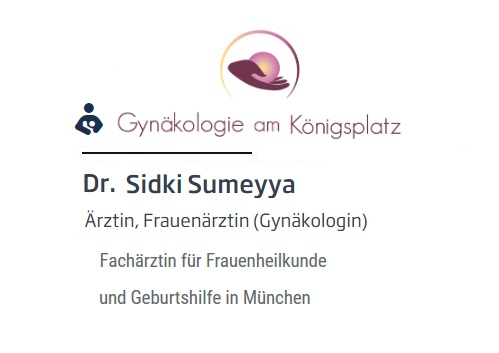
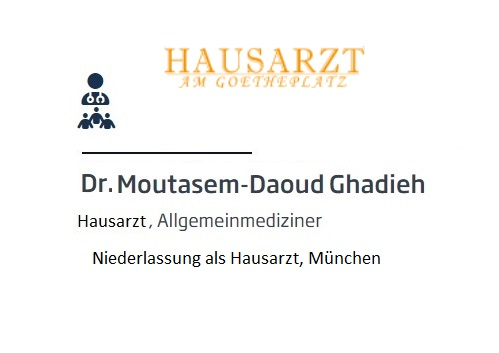
fix

diff --git a/data/db-other.js b/data/db-other.js
@@ -256,11 +256,42 @@ const other = [
     }, 
     {
         id: '10',
-        title: 'Dr. med. Sumeyya Sidki',
+        title: 'Dr. Moutasem-Daoud Ghadieh',
         category: 'arabic doctors',
         icon: 'fa-solid fa-shop',
         images: [
             './images/other/other-10.jpeg',
+        ],
+        country: 'Germany',
+        location: 'https://goo.gl/maps/Md8vjtEyQw2Bby6EA',
+        site: 'https://www.praxis-ghadieh.de/',
+        facebook: '',
+        termin: 'https://www.jameda.de/muenchen/aerzte/innere-allgemeinmediziner/moutasem-daoud-ghadieh/uebersicht/80434343_1/',
+        address1: 'Lindwurmstraße 85, 80337 München',
+        phone: '089534735',
+        email:'drmdghadieh@hotmail.de',
+        description: 'Dr. Moutasem-Daoud Ghadieh, General practitioner.',
+        more: 'praxis offer you modern and all-encompassing, precise and state-of-the-art medical care in the context of internal medicine and general medicine. We follow evidence-based medicine in our decisions regarding your treatment. And in your medical care, we integrate the latest research results and scientific findings in our field. Our many years of activity in the Munich medical network allows us to offer you the best clinicians and specialists for further treatment.',
+        thingstodo: [
+            'General practitioner',
+            'Sonography',
+            'LUFU',
+            'Ergometry',
+            'LZ-RR',
+            'ECG',
+            'LZ ECG'
+        ],
+        rate: 4.2,
+        likes: '299',
+        featured: true,
+    }, 
+    {
+        id: '11',
+        title: 'Dr. med. Sumeyya Sidki',
+        category: 'arabic doctors',
+        icon: 'fa-solid fa-shop',
+        images: [
+            './images/other/other-11.jpeg',
         ],
         country: 'Germany',
         location: 'https://goo.gl/maps/YCQb1VeJKTjXuxu58',

diff --git a/about.html b/about.html
@@ -109,6 +109,7 @@
       <h6>places for birthday party.</h6>
       <h6>picnic, grilling, walk, relax, bike, strolling, price-less.</h6>
       <h6>cafes, shopping, hiking, swimming, lakes,...</h6>
+      <h6>#munich #liveinmunich #placestovisitinmunich #munichtourism #tourguide #trips #munichtoexplore #bayern #BayernMunich #outing #tours #travel #tripadvisor #europe #travelexperience #products #Bestseller #tickets #transportation #restaurant #indianfood #westbad #swimmingpool #swimming #outdoors #indoor #surfen #englishgarden #englischergarten #orsay #shopping #sale #primark #pepmall #münchnerfreiheit #germany #app #IMPORTANT #ImportantApp #application #easylife #importantingermany #lifeingermany #germany #döner #dönerkebab #shawerma #steak #halal #park #garden #animals #zoo #amusement #kids #playground #Jungle #breakfast #dinner #lunch #falafel #low_price #action #tedi #woolworth #kik #chopan #hauptkarte #payback #BONUS #coupon #müller #DM #rossmann #cosmatics #outlet #Brunnthal #foodcourt #werksviertelmitte #delitadka #bike #secondhand #sportsequipment #sports #ingolstadtvillage #fish #hering #halalmarket #halalfood #halalrestaurant #arabic #arabicrestaurant #circus #circusinmunich #turkish #turkishfood #burger</h6>
     </article>
   </section>
   <!-- end of about section -->
